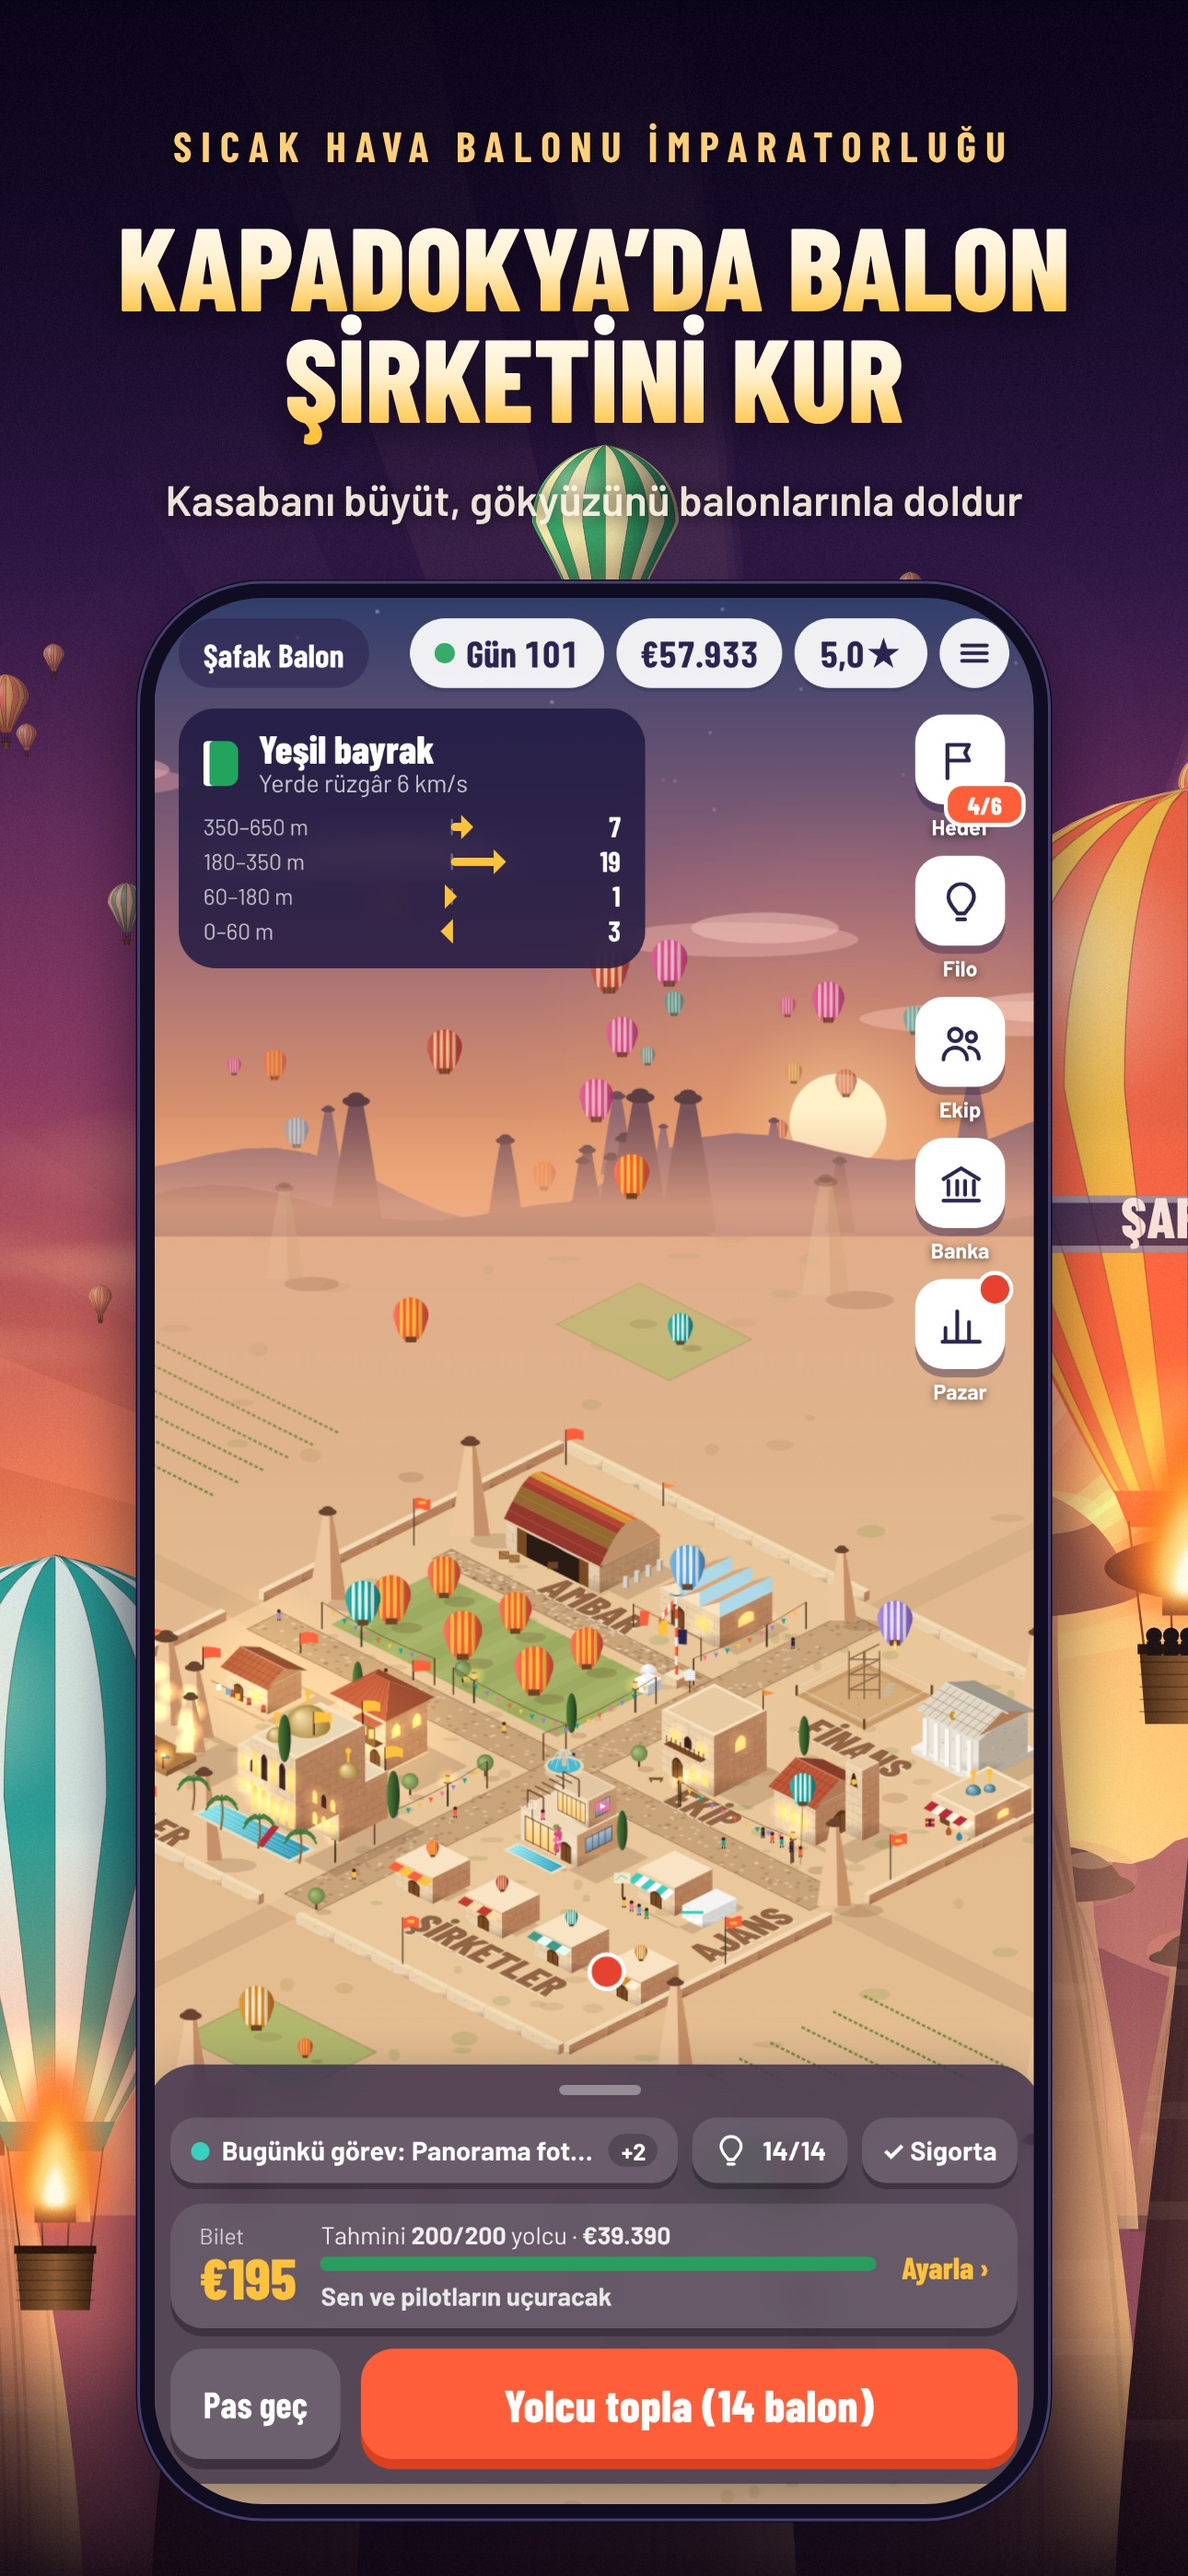
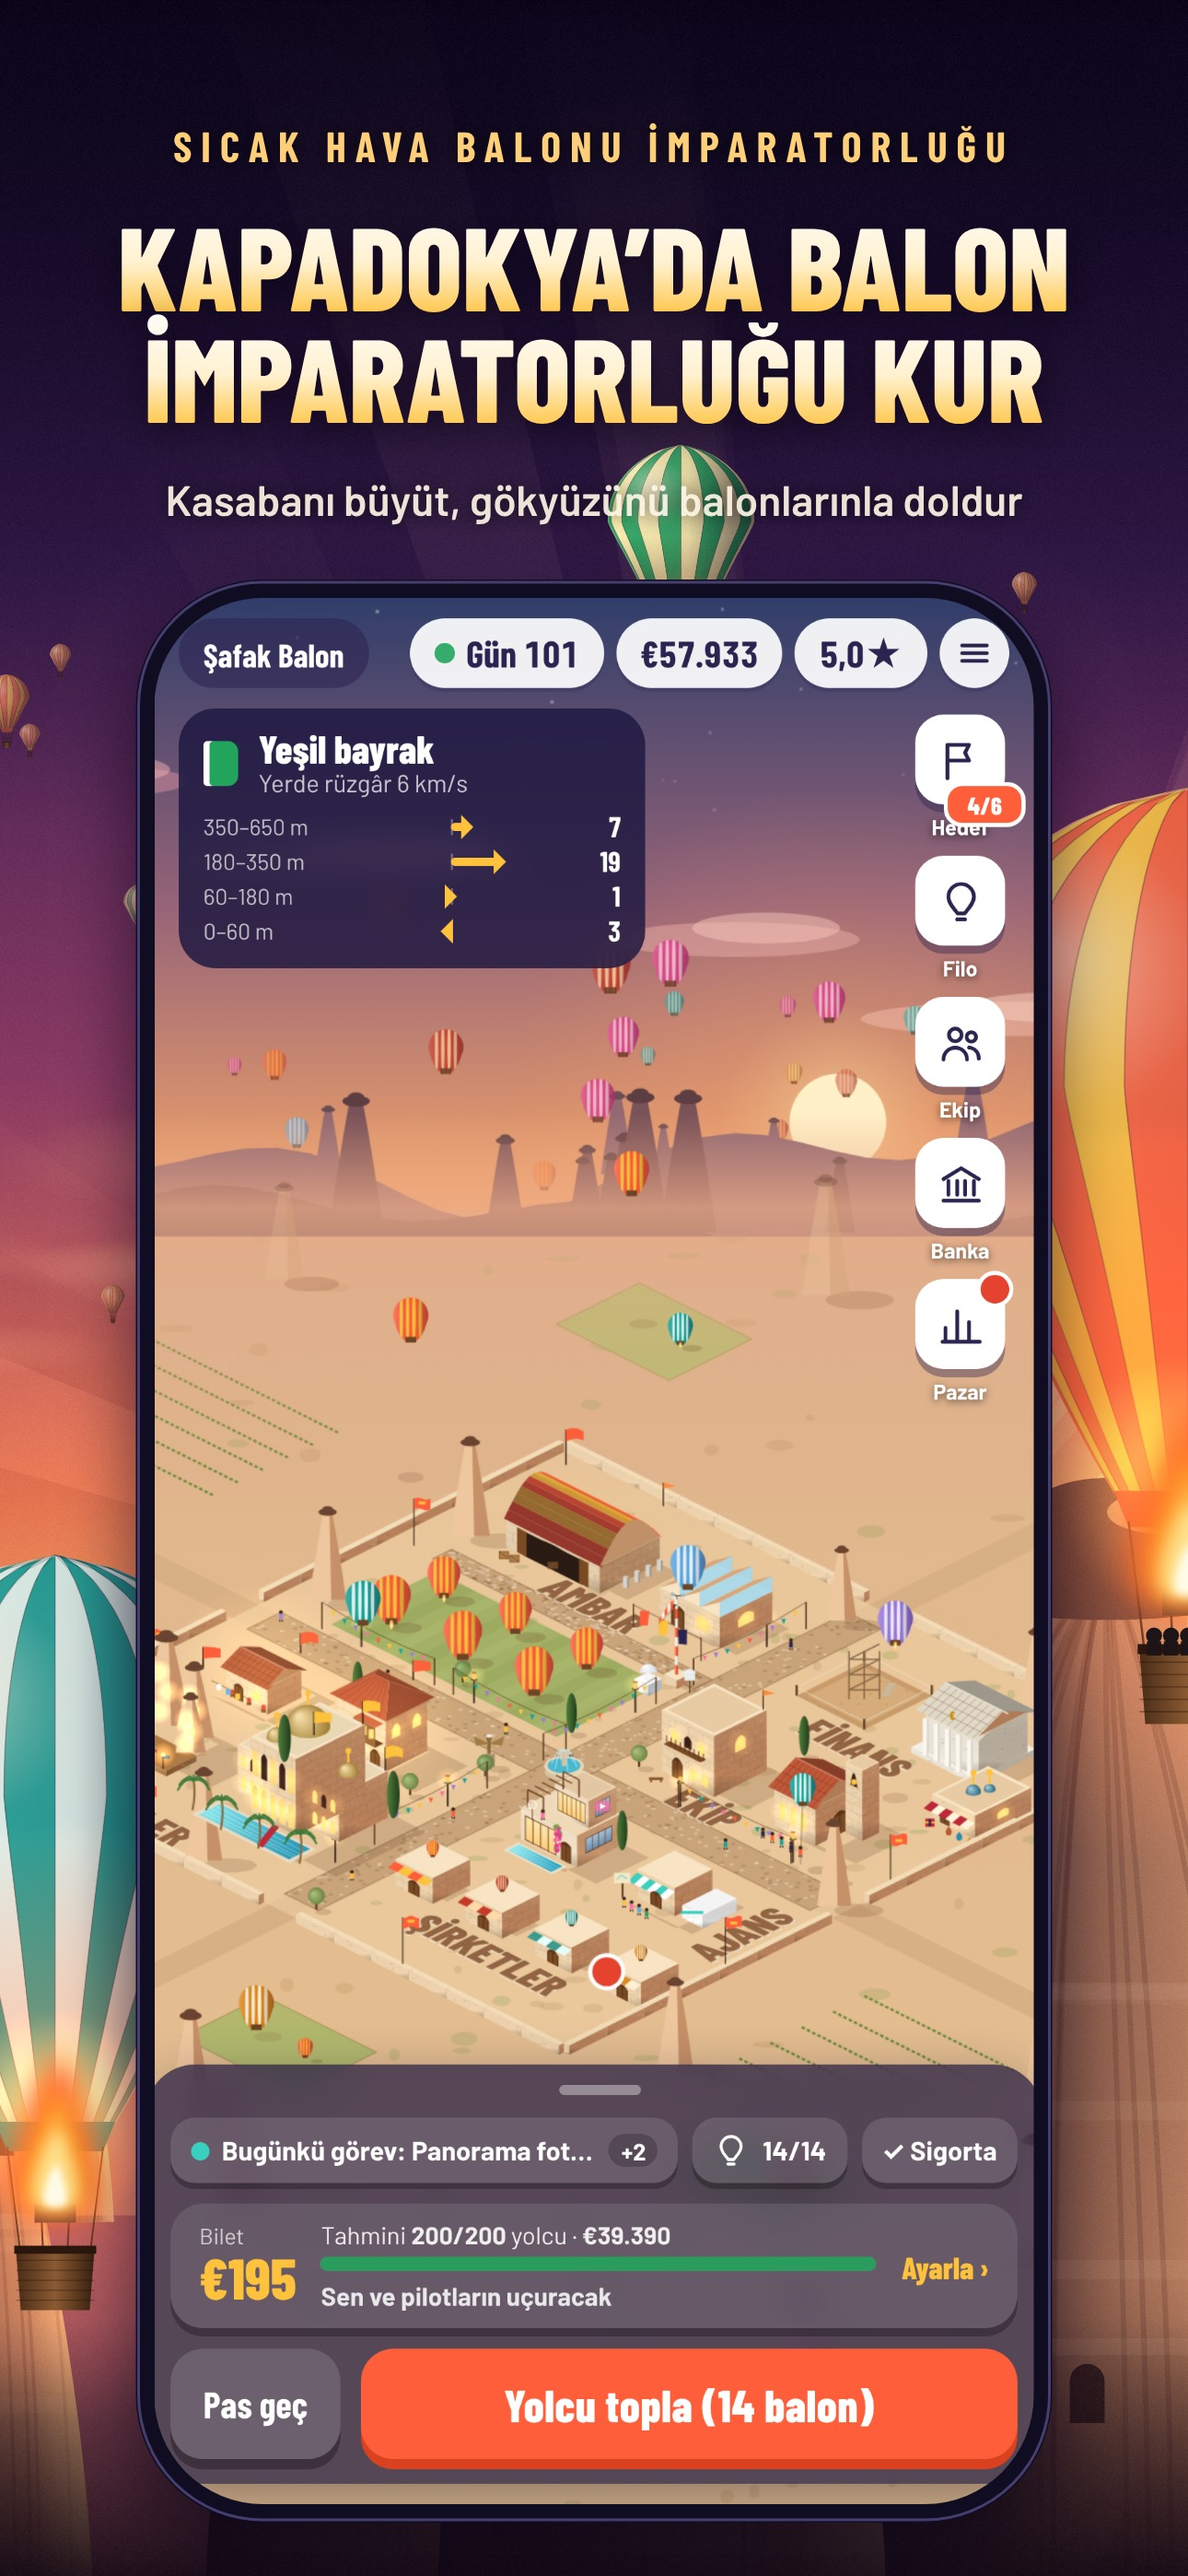
App Store screens (Turkish): nine in conversion order, with the Cappadocia-to-America poster
Order: build an empire, fly it yourself, from one basket to a holding (the three that show in search), then
the America poster, the night, the design studio, passengers, crew, postcards. Every paid item is owned in the
shots, so nothing looks locked or priced; no name on the hero balloon. The poster's sides fade into the
shared sky so the strip stays one piece.

Claude-Session: https://claude.ai/code/session_01Q4aHnqhWNWzUa6kkjEn2hH

diff --git a/tools/appstore/panorama.html b/tools/appstore/panorama.html
@@ -14,29 +14,34 @@ canvas { display: block; }
 </style>
 </head>
 <body>
-<canvas id="c" width="10320" height="2796"></canvas>
+<canvas id="c" width="11610" height="2796"></canvas>
 <script src="art.js"></script>
 <script>
-/* The eight App Store screens drawn as one wide picture, so the big balloons between them carry on from one
+/* The App Store screens drawn as one wide picture, so the big balloons between them carry on from one
    screen to the next while you swipe. Each screen: caption on top, the real game screen in a phone below.
-   panorama.js opens this page with ?lang=tr&raw=<folder of raw-<scene>.png> and cuts it into eight. */
-const P = 1290, N = 8;
+   panorama.js opens this page with ?lang=tr&raw=<folder of raw-<scene>.png> and cuts it into screens. */
+const P = 1290, N = 9;
 W = P * N; H = 2796;
 const cv = document.getElementById('c'), ctx = cv.getContext('2d');
 const q = new URLSearchParams(location.search), lang = q.get('lang') || 'tr', raw = q.get('raw');
 
+/* In App Store order: the first three show in search results, so they carry the hook (build an empire, fly it
+   yourself, grow it into a holding); then going global, the night, and the rest. A 'poster' screen is
+   render.html's own picture instead of a phone. */
 const T = {
   tr: [
-    ['home', 'SICAK HAVA BALONU İMPARATORLUĞU', ['KAPADOKYA’DA BALON', 'ŞİRKETİNİ KUR'], 'Kasabanı büyüt, gökyüzünü balonlarınla doldur'],
+    ['home', 'SICAK HAVA BALONU İMPARATORLUĞU', ['KAPADOKYA’DA BALON', 'İMPARATORLUĞU KUR'], 'Kasabanı büyüt, gökyüzünü balonlarınla doldur'],
     ['flight', 'GERÇEK UÇUŞ, GERÇEK RİSK', ['BRÜLÖRÜ YAK,', 'RÜZGÂRI OKU'], 'Doğru rüzgâr katmanını bul, kusursuz in'],
+    ['holding', 'HOLDİNG PATRONU', ['BİR SEPETTEN', 'HOLDİNGE'], 'New York, İstanbul, Tokyo, Seul: ofislerini aç'],
+    ['poster-abq'],
     ['night', 'GECE OLUNCA', ['KASABAN', 'IŞIL IŞIL'], 'Havai fişekler, fener alayı, ateş böcekleri'],
-    ['collect', 'SABAH TELAŞI', ['YOLCULARINI', 'TOPLA'], 'Ofisinin önünde sıra, safari cipleri yolda'],
     ['design', 'TASARIM STÜDYOSU', ['BALONUNU', 'TASARLA'], 'Desenler, renkler, kalp ve yıldız balonlar'],
+    ['collect', 'SABAH TELAŞI', ['YOLCULARINI', 'TOPLA'], 'Ofisinin önünde sıra, safari cipleri yolda'],
     ['crew', 'EKİBİNİ KUR', ['HER PİLOTUN BİR', 'KARAKTERİ VAR'], 'Temkinli mi, gözü kara mı? Seçim senin'],
     ['album', 'BAŞARIMLAR', ['22 KARTPOSTAL', 'TOPLA'], 'Her başarı Kapadokya’dan bir anı'],
-    ['holding', 'HOLDİNG PATRONU', ['BİR SEPETTEN', 'HOLDİNGE'], 'Kapadokya’dan Albuquerque’ye, dünyaya açıl'],
   ]
 }[lang];
+const poster = i => T[i][0].startsWith('poster');
 
 /* The phone: 74% of the screen, bottom-centred in each panel, like compose.py. */
 const S = .74, SW = Math.round(P * S), SH = Math.round(H * S), PY = H - SH - 78;
@@ -46,7 +51,7 @@ const phoneX = i => i * P + (P - SW) / 2;
    screen. `front` ones sit over the phone's edge for depth; the rest float behind. */
 const BIG = [
   { x: 60, y: 1950, R: 250, c: ['#14a39a', '#e8fff9'], flame: true },
-  { x: P, y: 1180, R: 310, c: ['#ff5e3a', '#ffc23d'], flame: true, band: '#2b2350', text: 'ŞAFAK', people: 5 },
+  { x: P, y: 1180, R: 310, c: ['#ff5e3a', '#ffc23d'], flame: true, people: 5 },
   { x: P * 2, y: 2080, R: 250, c: ['#5aa9e6', '#eaf4fc'] },
   { x: P * 2, y: 1040, R: 215, c: ['#ffc23d', '#e5432f'], flame: true, front: true },
   { x: P * 3, y: 1380, R: 330, c: ['#9b7be0', '#f2ebff'], pattern: 'stars', pc: ['#ffc23d', '#ffffff'], flame: true },
@@ -56,7 +61,9 @@ const BIG = [
   { x: P * 6, y: 1950, R: 310, c: ['#3ad0c0', '#1f6f8b'], pattern: 'zigzag', pc: ['#ffffff', '#ffc23d'] },
   { x: P * 6, y: 1040, R: 210, c: ['#e5432f', '#ffffff'], flame: true, front: true },
   { x: P * 7, y: 1320, R: 280, c: ['#ff8a3d', '#ffe0b0'], pattern: 'rainbow', flame: true },
-  { x: W - 60, y: 2200, R: 250, c: ['#ffc23d', '#2b2350'], pattern: 'checker', pc: ['#2b2350', '#ffc23d'] },
+  { x: P * 8, y: 2150, R: 270, c: ['#14a39a', '#ffc23d'], pattern: 'dots', pc: ['#ffc23d', '#ffffff'] },
+  { x: P * 8, y: 1040, R: 210, c: ['#9b7be0', '#ffffff'], flame: true, front: true },
+  { x: W - 60, y: 1500, R: 250, c: ['#ffc23d', '#2b2350'], pattern: 'checker', pc: ['#2b2350', '#ffc23d'] },
 ];
 function big(b) {
   balloon(b.x, b.y, b.R, b.c, { gores: 14, light: -1, flame: !!b.flame, flameScale: .6, band: b.band, text: b.text, people: b.people,
@@ -71,7 +78,18 @@ function phone(i, img) {
   ctx.save(); rrect(x, PY, SW, SH, rad); ctx.clip(); ctx.drawImage(img, x, PY, SW, SH); ctx.restore();
 }
 
+/* A poster screen keeps its own picture; its sides fade into the shared sky so the strip stays one piece. */
+function posterPanel(i, img) {
+  const off = document.createElement('canvas'); off.width = P; off.height = H;
+  const o = off.getContext('2d'); o.drawImage(img, 0, 0, P, H);
+  const m = o.createLinearGradient(0, 0, P, 0);
+  m.addColorStop(0, 'rgba(0,0,0,0)'); m.addColorStop(.12, 'rgba(0,0,0,1)'); m.addColorStop(.88, 'rgba(0,0,0,1)'); m.addColorStop(1, 'rgba(0,0,0,0)');
+  o.globalCompositeOperation = 'destination-in'; o.fillStyle = m; o.fillRect(0, 0, P, H);
+  ctx.drawImage(off, i * P, 0);
+}
+
 function caption(i) {
+  if (poster(i)) return;
   const [, kicker, lines, sub] = T[i];
   ctx.save(); ctx.translate(i * P, 0);
   const keep = W; W = P;
@@ -84,7 +102,7 @@ function caption(i) {
 function load(src) { return new Promise((res, rej) => { const im = new Image(); im.onload = () => res(im); im.onerror = rej; im.src = src; }); }
 
 Promise.all([document.fonts.load('800 100px BC'), document.fonts.load('700 40px BC'), document.fonts.load('600 40px B')])
-  .then(() => Promise.all(T.map(t => load(`${raw}/raw-${t[0]}.png`))))
+  .then(() => Promise.all(T.map(t => load(`${raw}/${t[0].startsWith('poster') ? t[0] : 'raw-' + t[0]}.png`))))
   .then(imgs => {
     /* one sky over all eight screens: dawn on the left, the sun climbing to the right */
     sky([[0, '#140b2e'], [.22, '#3a1d52'], [.42, '#8a3a62'], [.58, '#e0704e'], [.7, '#ffb36b'], [.78, '#ffd59a'], [1, '#ffd59a']]);
@@ -98,9 +116,10 @@ Promise.all([document.fonts.load('800 100px BC'), document.fonts.load('700 40px 
     haze(H * .7, H * .86, '#ffb07a', 0, .35);
     chimneyField(H * 1.0, 40, 620, 1150, 31, { lit: '#d9966e', dark: '#2e1620', windows: 3, rim: '#ffcf8a' });
     haze(H * .9, H, '#120814', 0, .9);
+    grain(8); // before any picture goes on (they taint the canvas for reading)
+    imgs.forEach((im, i) => { if (poster(i)) posterPanel(i, im); });
     BIG.filter(b => !b.front).forEach(big);
-    grain(8); // before the game screens go on (they taint the canvas for reading)
-    imgs.forEach((im, i) => phone(i, im));
+    imgs.forEach((im, i) => { if (!poster(i)) phone(i, im); });
     BIG.filter(b => b.front).forEach(big);
     T.forEach((_, i) => caption(i));
     document.title = 'done';

diff --git a/tools/appstore/panorama.js b/tools/appstore/panorama.js
@@ -12,11 +12,17 @@ const fs = require('fs');
   const p = await b.newPage({ viewport: { width: 1290, height: 2796 } });
   const errs = [];
   p.on('pageerror', e => errs.push(e.message));
+  // The "Cappadocia to Albuquerque" poster from render.html becomes one of the screens.
+  await p.goto('file://' + path.join(__dirname, 'render.html') + `?s=5&lang=${lang}`);
+  await p.waitForFunction(() => document.title === 'done', null, { timeout: 60000 });
+  await p.locator('#c').screenshot({ path: path.join(raw, 'poster-abq.png') });
   await p.goto('file://' + path.join(__dirname, 'panorama.html') + `?lang=${lang}&raw=${encodeURIComponent('file://' + raw)}`);
   await p.waitForFunction(() => document.title === 'done' || document.title.startsWith('error'), null, { timeout: 180000 });
   const title = await p.title();
   if (title !== 'done') throw new Error(title);
-  for (let i = 0; i < 8; i++) {
+  for (const f of fs.readdirSync(out)) if (f.endsWith('.jpg')) fs.unlinkSync(path.join(out, f));
+  const n = await p.evaluate(() => N);
+  for (let i = 0; i < n; i++) {
     await p.evaluate(i => { document.getElementById('c').style.transform = `translateX(${-i * 1290}px)`; }, i);
     await p.screenshot({ path: path.join(out, `${String(i + 1).padStart(2, '0')}.jpg`), type: 'jpeg', quality: 92 });
   }

diff --git a/tools/appstore/shots.js b/tools/appstore/shots.js
@@ -23,7 +23,7 @@ const only = process.argv[2];
       Object.assign(window, keep); sfx = keep.sfx; save = keep.save; showReport = keep.showReport; refresh = keep.refresh; startFlight = keep.startFlight;
       Math.random = R0;
       S.company = 'Şafak Balon';
-      S.iap = Object.assign({}, S.iap, { lanterns: 1, fountain: 1, flags: 1 });
+      S.iap = Object.fromEntries(Object.keys(SHOP).map(k => [k, 1])); /* every paid item owned: nothing in the shots looks locked or priced */
       S.hezQ = []; S.paper = null; S.paperNext = null; S.eventDue = false; S.nextEvent = 99999; S.chapterNews = null; S.late = null; S.newPost = []; S.tutorialDone = true; S.tips = new Proxy({}, { get: () => 1 });
       startDay();
     })()`);
@@ -60,7 +60,7 @@ const only = process.argv[2];
     await p.waitForTimeout(3200); await shot('night');
   }
   if (!only || only === 'design') {
-    await load("S.workshop = { day: 5 }; S.iap = Object.assign({}, S.iap, { heart: 1, star: 1, hezarfen: 1, gold: 1, tile: 1 });");
+    await load("S.workshop = { day: 5 };");
     await p.evaluate(() => showDesigner()); await p.waitForTimeout(800); await shot('design');
   }
   if (!only || only === 'crew') { await load(); await p.evaluate(() => openPage('crew')); await p.waitForTimeout(600); await shot('crew'); }
